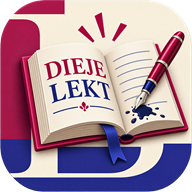
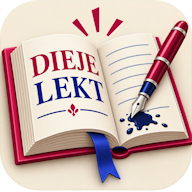
Icoon bijgewerkt (D-achtergrond verwijderd) en cache-versie gebumpt
Nieuwe versie van het Dieje Lekt-icoon zonder de rood/blauwe
D-vormige achtergrond. Broncode hernoemd naar icon.png.
Cache-versie gebumpt zodat de telefoon het nieuwe icoon ophaalt.
Eigen back-upmap met oudere iconversies genegeerd in .gitignore.

diff --git a/sw.js b/sw.js
@@ -17,7 +17,7 @@
 // mobiel, stopt de synchronisatie. Individuele mp3's die nog niet in de
 // cache zitten worden bij het afspelen ook nooit via mobiel netwerk
 // opgehaald.
-const CACHE_VERSION = "cfd4773fbc24-name2";
+const CACHE_VERSION = "cfd4773fbc24-icon4";
 const CORE_CACHE_NAME = "bergs-quiz-core-" + CACHE_VERSION;
 const MP3_CACHE_NAME = "bergs-quiz-mp3s";
 
